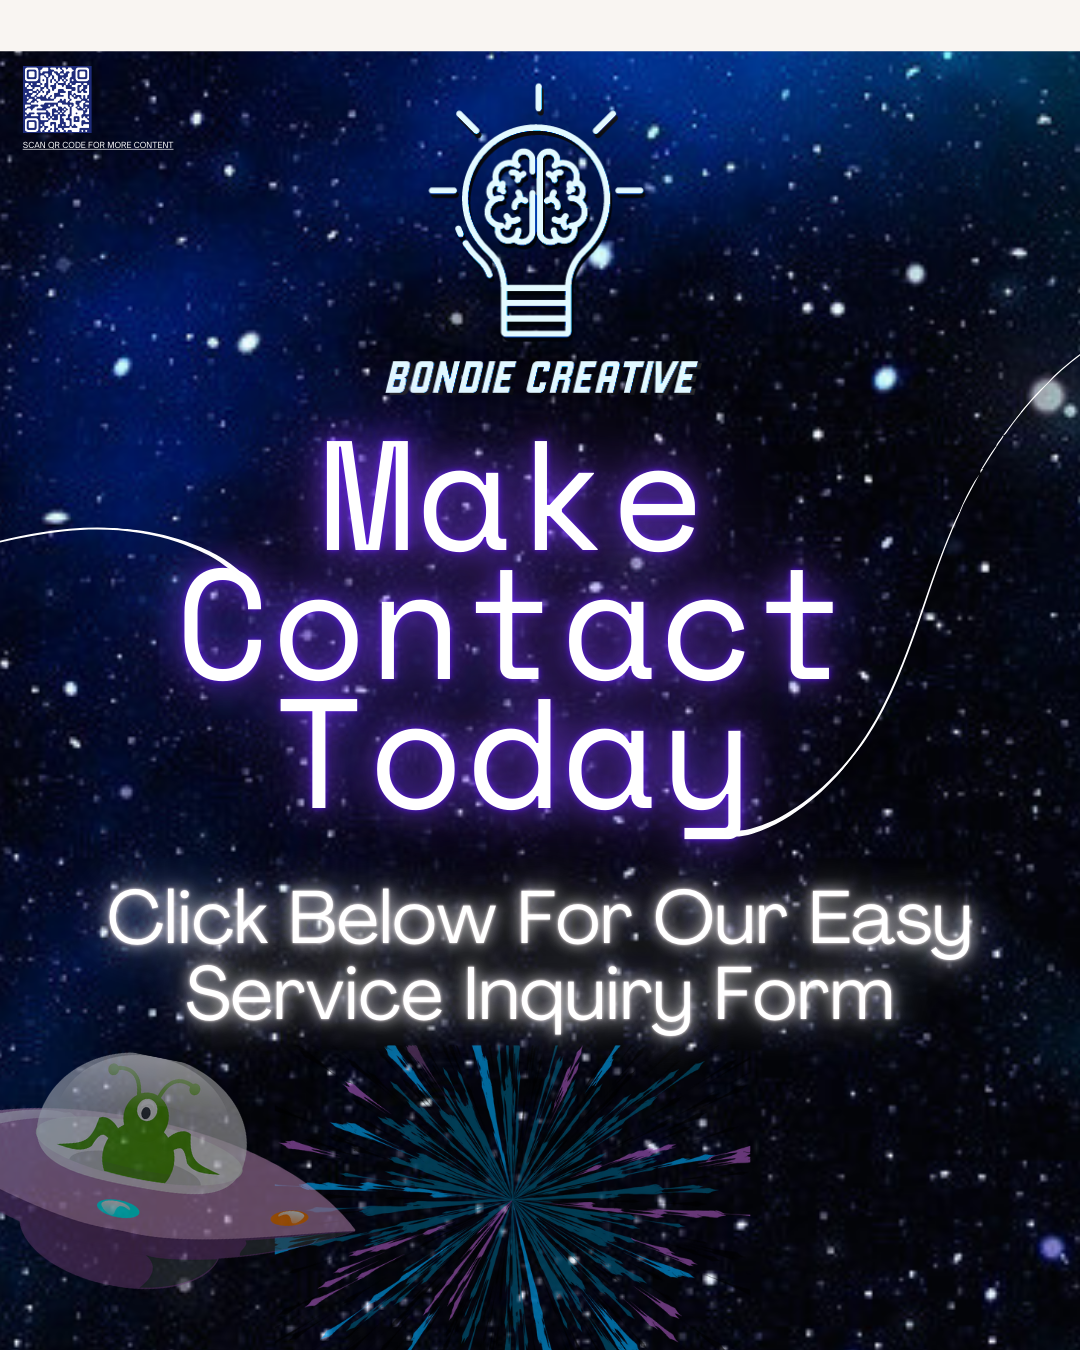
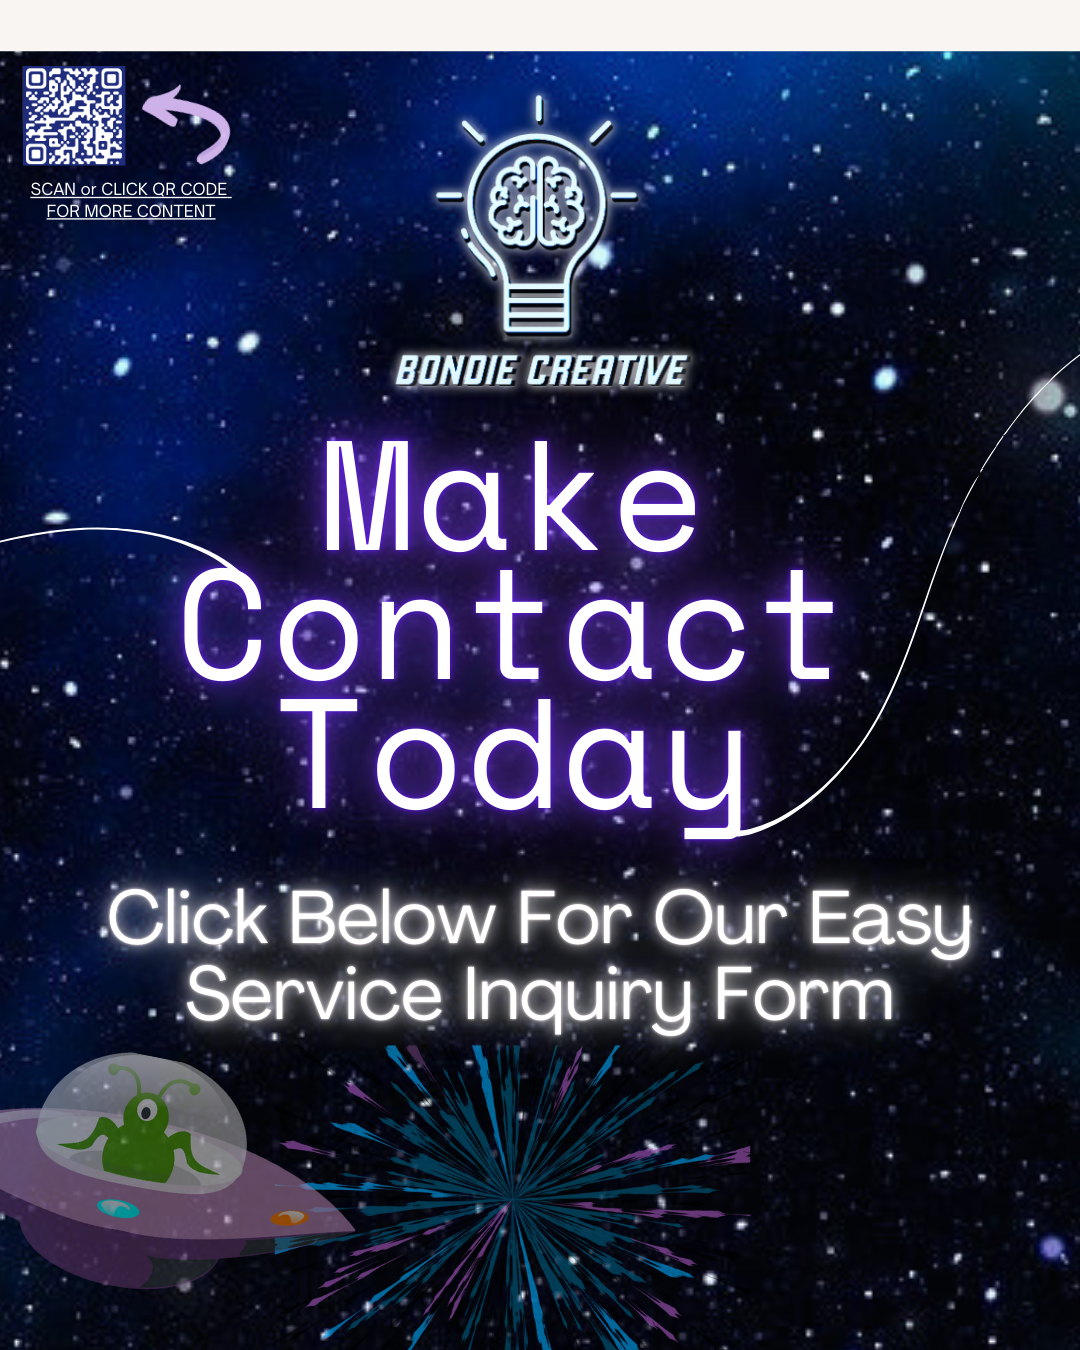
a

Changed region(s): [[0.3361, 0.0622, 0.6417, 0.3111], [0.0, 0.0311, 0.2139, 0.1867]]

diff --git a/index.html b/index.html
@@ -2,7 +2,7 @@
 <html lang="en">
 <head>
 <meta charset="utf-8">
-<title>www.BondieCreative.com</title>
+<title>BondieCreative HOME</title>
 <meta name="description" content="www.bondiecreative.com (WEBSITE)">
 <meta name="generator" content="WYSIWYG Web Builder 19 - https://www.wysiwygwebbuilder.com">
 <link href="www.css" rel="stylesheet">
@@ -11,22 +11,30 @@
 <script src="wwb19.min.js"></script>
 </head>
 <body class="wb-theme-content">
-<hr id="footerLine" style="position:absolute;left:14px;top:6984px;width:1170px;z-index:0;">
-<div id="wb_footerCopyright" style="position:absolute;left:15px;top:7035px;width:1170px;height:36px;text-align:center;z-index:1;">
+<div id="wb_Image8" style="position:absolute;left:0px;top:1px;width:1199px;height:1697px;z-index:0;">
+<img src="images/Black And Grey Modern Photography Studio Promotion Flyer.png" id="Image8" alt="Black And Grey Modern Photography Studio Promotion Flyer - 1" title="Black And Grey Modern Photography Studio Promotion Flyer - 1" width="1199" height="1696"></div>
+<hr id="footerLine" style="position:absolute;left:14px;top:6984px;width:1170px;z-index:1;">
+<div id="wb_footerCopyright" style="position:absolute;left:0px;top:7026px;width:1170px;height:36px;text-align:center;z-index:2;">
 <span style="color:#FFFFFF;font-family:'Agency FB';font-size:15px;">Copyright © 20XX-2026, Brandon Bondie<br>ALL RIGHTS RESERVED </span><span style="color:#FFFFFF;font-family:'Segoe UI Emoji';font-size:15px;">🎥</span><span style="color:#FFFFFF;font-family:'Agency FB';font-size:15px;"> bondiecreative.com</span></div>
-<div id="wb_Image1" style="position:absolute;left:0px;top:2129px;width:1200px;height:1680px;z-index:2;">
-<img src="images/Black And White Modern Photography Service Poster(1).png" id="Image1" alt="Black And White Modern Photography Service Poster - 1" title="Black And White Modern Photography Service Poster - 1" width="1200" height="1680"></div>
 <div id="wb_Image3" style="position:absolute;left:0px;top:1698px;width:1198px;height:431px;z-index:3;">
 <img src="images/Brandon on Beach wide.png" id="Image3" alt="" width="1198" height="432"></div>
-<div id="wb_Image4" style="position:absolute;left:9px;top:1px;width:1199px;height:1697px;z-index:4;">
-<img src="images/Black And Grey Modern Photography Studio Promotion Flyer 01.png" id="Image4" alt="Black And Grey Modern Photography Studio Promotion Flyer - 1" title="Black And Grey Modern Photography Studio Promotion Flyer - 1" width="1199" height="1696"></div>
-<div id="wb_Image5" style="position:absolute;left:0px;top:3809px;width:1200px;height:1698px;z-index:5;">
-<img src="images/Black and White Minimalist Wedding Photography Package Flyer.png" id="Image5" alt="Black and White Minimalist Wedding Photography Package Flyer - 1" title="Black and White Minimalist Wedding Photography Package Flyer - 1" width="1200" height="1697"></div>
-<div id="wb_Image2" style="position:absolute;left:972px;top:1px;width:172px;height:172px;z-index:6;">
-<a href="#" onmouseover="AnimateCss('wb_Image2', 'jello-horizontal', 0, 500);return false;"><img src="images/BONDIE CREATIVE LOGO.png" id="Image2" alt="" width="172" height="172"></a></div>
-<hr id="HorizontalLine1" style="position:absolute;left:14px;top:7062px;width:1170px;z-index:7;">
-<div id="wb_Image6" style="position:absolute;left:0px;top:5507px;width:1200px;height:1500px;z-index:8;">
-<img src="images/Beige & Black Aesthetic Contact Us Instagram Post.png" id="Image6" alt="Beige &amp; Black Aesthetic Contact Us Instagram Post - 1" title="Beige &amp; Black Aesthetic Contact Us Instagram Post - 1" width="1200" height="1500"></div>
-<a id="Button8" href="mailto: bondiecreative@gmail.com" title="www.bondiecreative.com INQUIRY FORM" onclick="window.location.href='https://form.jotform.com/253644001045142';return false;" class="wb-theme-button" style="position:absolute;left:459px;top:6787px;width:219px;height:93px;z-index:9;">Service Inquiry Form</a>
+<div id="wb_Image2" style="position:absolute;left:981px;top:1px;width:168px;height:168px;z-index:4;">
+<a href="#" onmouseover="AnimateCss('wb_Image2', 'transform-3d-flip', 0, 500);return false;"><img src="images/BONDIE CREATIVE LOGO.png" id="Image2" alt="" width="168" height="168"></a></div>
+<hr id="HorizontalLine1" style="position:absolute;left:14px;top:7062px;width:1170px;z-index:5;">
+<div id="wb_Image5" style="position:absolute;left:1px;top:5478px;width:1198px;height:1498px;z-index:6;">
+<img src="images/Beige & Black Aesthetic Contact Us Instagram Post.png" id="Image5" alt="Beige &amp; Black Aesthetic Contact Us Instagram Post - 1" title="Beige &amp; Black Aesthetic Contact Us Instagram Post - 1" width="1198" height="1498"></div>
+<a id="Button8" href="mailto: bondiecreative@gmail.com" title="www.bondiecreative.com INQUIRY FORM" onclick="window.location.href='https://form.jotform.com/253644001045142';return false;" class="wb-theme-button" style="position:absolute;left:458px;top:6768px;width:219px;height:93px;z-index:7;">Service Inquiry Form</a>
+<div id="wb_Image4" style="position:absolute;left:25px;top:24px;width:108px;height:107px;z-index:8;">
+<a href="www.linktr.ee/bondiecreative" onclick="window.location.href='http://www.linktr.ee/bondiecreative';return false;" onmouseover="AnimateCss('wb_Image4', 'focus-out', 0, 500);return false;"><img src="images/LINKTREE QR CODE.png" id="Image4" alt="" title="LINKTREE BUTTON" width="108" height="107"></a></div>
+<div id="wb_Image9" style="position:absolute;left:0px;top:2129px;width:1200px;height:1680px;z-index:9;">
+<img src="images/Black And White Modern Photography Service Poster(1).png" id="Image9" alt="Black And White Modern Photography Service Poster - 1" title="Black And White Modern Photography Service Poster - 1" width="1200" height="1680"></div>
+<div id="wb_Image1" style="position:absolute;left:1px;top:3809px;width:1199px;height:1697px;z-index:10;">
+<img src="images/Black and White Minimalist Wedding Photography Package Flyer.png" id="Image1" alt="Black and White Minimalist Wedding Photography Package Flyer - 1" title="Black and White Minimalist Wedding Photography Package Flyer - 1" width="1199" height="1696"></div>
+<div id="wb_Image6" style="position:absolute;left:938px;top:2176px;width:117px;height:116px;z-index:11;">
+<a href="www.linktr.ee/bondiecreative" onclick="window.location.href='http://www.linktr.ee/bondiecreative';return false;" onmouseover="AnimateCss('wb_Image6', 'focus-out', 0, 500);return false;"><img src="images/LINKTREE QR CODE.png" id="Image6" alt="" title="LINKTREE BUTTON" width="117" height="116"></a></div>
+<div id="wb_Image7" style="position:absolute;left:25px;top:3827px;width:108px;height:107px;z-index:12;">
+<a href="www.linktr.ee/bondiecreative" onclick="window.location.href='http://www.linktr.ee/bondiecreative';return false;" onmouseover="AnimateCss('wb_Image7', 'focus-out', 0, 500);return false;"><img src="images/LINKTREE QR CODE.png" id="Image7" alt="" title="LINKTREE BUTTON" width="108" height="107"></a></div>
+<div id="wb_Image10" style="position:absolute;left:25px;top:5550px;width:114px;height:113px;z-index:13;">
+<a href="www.linktr.ee/bondiecreative" onclick="window.location.href='http://www.linktr.ee/bondiecreative';return false;" onmouseover="AnimateCss('wb_Image10', 'focus-out', 0, 500);return false;"><img src="images/LINKTREE QR CODE.png" id="Image10" alt="" title="LINKTREE BUTTON" width="114" height="113"></a></div>
 </body>
 </html>

diff --git a/index.css b/index.css
@@ -31,7 +31,7 @@ body
    --border-width: 1px;
    --color: #32FBE2;
    --icon-color: #6F42C1;
-   --colorize: invert(25%) sepia(81%) saturate(1362%) hue-rotate(240deg) brightness(98%) contrast(93%);
+   --colorize: invert(29%) sepia(19%) saturate(5013%) hue-rotate(239deg) brightness(97%) contrast(94%);
 }
 .wb-theme-button, .wb-theme-static
 {
@@ -93,7 +93,7 @@ body
    --border-width: 1px;
    --color: #DEE2D3;
    --icon-color: #6F42C1;
-   --colorize: invert(32%) sepia(21%) saturate(4661%) hue-rotate(240deg) brightness(87%) contrast(92%);
+   --colorize: invert(37%) sepia(19%) saturate(3696%) hue-rotate(232deg) brightness(83%) contrast(102%);
 }
 .darktheme .wb-theme-button, .darktheme .wb-theme-static
 {
@@ -131,6 +131,21 @@ body
    --border-width: 1px;
    --color: #FFFFFF;
 }
+#wb_Image8
+{
+   vertical-align: top;
+}
+#Image8
+{
+   border: 0px solid #000000;
+   border-radius: 0px;
+   padding: 0;
+   margin: 0;
+   left: 0;
+   top: 0;
+   width: 100%;
+   height: 100%;
+}
 #footerLine
 {
    border-color: #FFFFFF;
@@ -158,56 +173,11 @@ body
 {
    text-align: center;
 }
-#wb_Image1
-{
-   vertical-align: top;
-}
-#Image1
-{
-   border: 0px solid #000000;
-   border-radius: 0px;
-   padding: 0;
-   margin: 0;
-   left: 0;
-   top: 0;
-   width: 100%;
-   height: 100%;
-}
 #wb_Image3
 {
    vertical-align: top;
 }
 #Image3
-{
-   border: 0px solid #000000;
-   border-radius: 0px;
-   padding: 0;
-   margin: 0;
-   left: 0;
-   top: 0;
-   width: 100%;
-   height: 100%;
-}
-#wb_Image4
-{
-   vertical-align: top;
-}
-#Image4
-{
-   border: 0px solid #000000;
-   border-radius: 0px;
-   padding: 0;
-   margin: 0;
-   left: 0;
-   top: 0;
-   width: 100%;
-   height: 100%;
-}
-#wb_Image5
-{
-   vertical-align: top;
-}
-#Image5
 {
    border: 0px solid #000000;
    border-radius: 0px;
@@ -246,11 +216,11 @@ body
    margin: 25px 0 25px 0 ;
    padding: 0;
 }
-#wb_Image6
+#wb_Image5
 {
    vertical-align: top;
 }
-#Image6
+#Image5
 {
    border: 0px solid #000000;
    border-radius: 0px;
@@ -279,4 +249,94 @@ body
 #Button8:focus
 {
    outline: 0;
+}
+#wb_Image4
+{
+   vertical-align: top;
+}
+#Image4
+{
+   border: 0px solid #000000;
+   border-radius: 0px;
+   padding: 0;
+   margin: 0;
+   left: 0;
+   top: 0;
+   width: 100%;
+   height: 100%;
+}
+#wb_Image9
+{
+   vertical-align: top;
+}
+#Image9
+{
+   border: 0px solid #000000;
+   border-radius: 0px;
+   padding: 0;
+   margin: 0;
+   left: 0;
+   top: 0;
+   width: 100%;
+   height: 100%;
+}
+#wb_Image1
+{
+   vertical-align: top;
+}
+#Image1
+{
+   border: 0px solid #000000;
+   border-radius: 0px;
+   padding: 0;
+   margin: 0;
+   left: 0;
+   top: 0;
+   width: 100%;
+   height: 100%;
+}
+#wb_Image6
+{
+   vertical-align: top;
+}
+#Image6
+{
+   border: 0px solid #000000;
+   border-radius: 0px;
+   padding: 0;
+   margin: 0;
+   left: 0;
+   top: 0;
+   width: 100%;
+   height: 100%;
+}
+#wb_Image7
+{
+   vertical-align: top;
+}
+#Image7
+{
+   border: 0px solid #000000;
+   border-radius: 0px;
+   padding: 0;
+   margin: 0;
+   left: 0;
+   top: 0;
+   width: 100%;
+   height: 100%;
+}
+#wb_Image10
+{
+   vertical-align: top;
+}
+#Image10
+{
+   border: 0px solid #000000;
+   border-radius: 0px;
+   padding: 0;
+   margin: 0;
+   left: 0;
+   top: 0;
+   width: 100%;
+   height: 100%;
 }

diff --git a/www.css b/www.css
@@ -1,12 +1,15 @@
-@keyframes jello-horizontal
+@keyframes focus-out
 {
-   0% { transform: rotateX(0deg) ;  }
-   30% { transform: rotateX(0deg) scale3d(1.25,0.75,1.0) ;  }
-   40% { transform: rotateX(0deg) scale3d(0.75,1.25,1.0) ;  }
-   50% { transform: rotateX(0deg) scale3d(1.15,0.85,1.0) ;  }
-   65% { transform: rotateX(0deg) scale3d(0.95,1.05,1.0) ;  }
-   75% { transform: rotateX(0deg) scale3d(1.05,0.95,1.0) ;  }
-   100% { transform: rotateX(0deg) scale3d(1.0,1.0,1.0) ;  }
+   0% { opacity: 1.0; filter: blur(0);  }
+   100% { opacity: 0.0; filter: blur(20px);  }
+}
+@keyframes transform-3d-flip
+{
+   0% { transform: perspective(400px) rotateX(0deg) ;  }
+   40% { transform: perspective(400px) translate3d(0px,0px,150px) rotateX(0deg) rotateY(170deg) ;  }
+   50% { transform: perspective(400px) translate3d(0px,0px,150px) rotateX(0deg) rotateY(190deg) scale3d(1.01,1.01,1.01) ;  }
+   80% { transform: perspective(400px) translate3d(0px,0px,0px) rotateX(0deg) rotateY(360deg) scale3d(0.95,0.95,0.95) ;  }
+   100% { transform: perspective(400px) translate3d(0px,0px,0px) rotateX(0deg) rotateY(0deg) scale3d(1.0,1.0,1.0) ;  }
 }
 h1, .h1
 {
